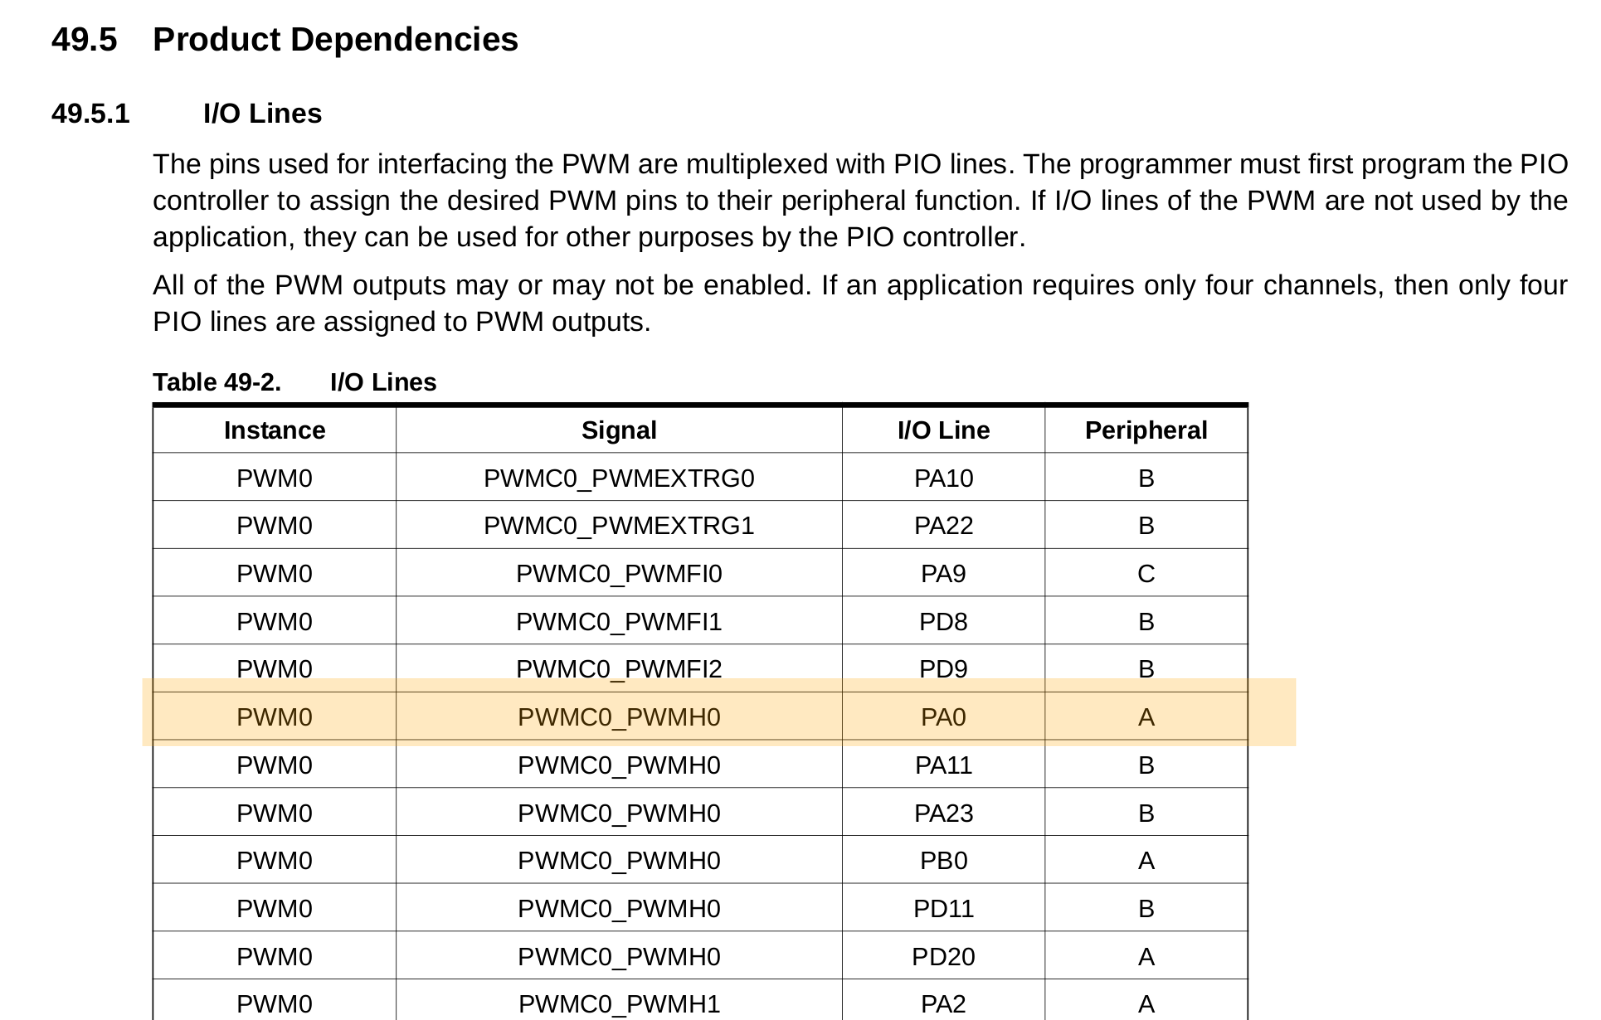
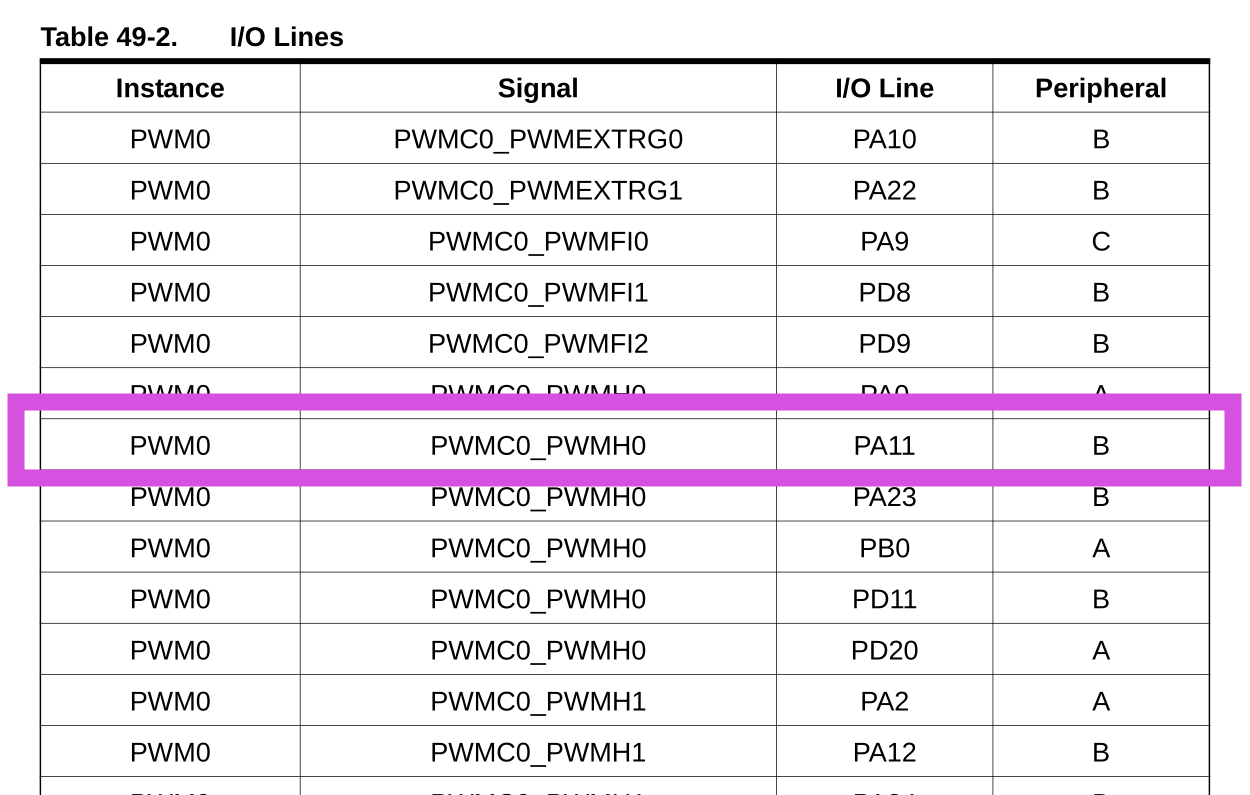
fix figure pd11

diff --git a/Demos/HC05-Controle-Exemplo/python-vjoy/game_controller.py b/Demos/HC05-Controle-Exemplo/python-vjoy/game_controller.py
@@ -2,11 +2,12 @@ import serial
 import argparse
 import time
 import logging
-import pyvjoy # Windows apenas
+import pyvjoy  # Windows apenas
+
 
 class MyControllerMap:
     def __init__(self):
-        self.button = {'A': 1}
+        self.button = {"A": 1}
 
 
 class SerialControllerInterface:
@@ -19,22 +20,27 @@ class SerialControllerInterface:
         self.ser = serial.Serial(port, baudrate=baudrate)
         self.mapping = MyControllerMap()
         self.j = pyvjoy.VJoyDevice(1)
-        self.incoming = '0'
+        self.incoming = "0"
+
+    def tx(self):
+        print("Enter text to send")
+        msg = input()
+        self.ser.write(msg.encode("ascii"))
 
     def update(self):
         ## Sync protocol
-        while self.incoming != b'X':
+        while self.incoming != b"X":
             self.incoming = self.ser.read()
             logging.debug("Received INCOMING: {}".format(self.incoming))
 
         data = self.ser.read()
         logging.debug("Received DATA: {}".format(data))
 
-        if data == b'1':
+        if data == b"1":
             logging.info("Sending press")
-            self.j.set_button(self.mapping.button['A'], 1)
-        elif data == b'0':
-            self.j.set_button(self.mapping.button['A'], 0)
+            self.j.set_button(self.mapping.button["A"], 1)
+        elif data == b"0":
+            self.j.set_button(self.mapping.button["A"], 0)
 
         self.incoming = self.ser.read()
 
@@ -45,29 +51,37 @@ class DummyControllerInterface:
         self.j = pyvjoy.VJoyDevice(1)
 
     def update(self):
-        self.j.set_button(self.mapping.button['A'], 1)
+        self.j.set_button(self.mapping.button["A"], 1)
         time.sleep(0.1)
-        self.j.set_button(self.mapping.button['A'], 0)
+        self.j.set_button(self.mapping.button["A"], 0)
         logging.info("[Dummy] Pressed A button")
         time.sleep(1)
 
 
-if __name__ == '__main__':
-    interfaces = ['dummy', 'serial']
+if __name__ == "__main__":
+    interfaces = ["dummy", "serial"]
     argparse = argparse.ArgumentParser()
-    argparse.add_argument('serial_port', type=str)
-    argparse.add_argument('-b', '--baudrate', type=int, default=9600)
-    argparse.add_argument('-c', '--controller_interface', type=str, default='serial', choices=interfaces)
-    argparse.add_argument('-d', '--debug', default=False, action='store_true')
+    argparse.add_argument("serial_port", type=str)
+    argparse.add_argument("-b", "--baudrate", type=int, default=9600)
+    argparse.add_argument(
+        "-c", "--controller_interface", type=str, default="serial", choices=interfaces
+    )
+    argparse.add_argument("-d", "--debug", default=False, action="store_true")
     args = argparse.parse_args()
     if args.debug:
         logging.basicConfig(level=logging.DEBUG)
 
-    print("Connection to {} using {} interface ({})".format(args.serial_port, args.controller_interface, args.baudrate))
-    if args.controller_interface == 'dummy':
+    print(
+        "Connection to {} using {} interface ({})".format(
+            args.serial_port, args.controller_interface, args.baudrate
+        )
+    )
+    if args.controller_interface == "dummy":
         controller = DummyControllerInterface()
     else:
-        controller = SerialControllerInterface(port=args.serial_port, baudrate=args.baudrate)
+        controller = SerialControllerInterface(
+            port=args.serial_port, baudrate=args.baudrate
+        )
 
     while True:
-        controller.update()
+        controller.tx()

diff --git a/Perifericos-uC/PWM-LED/PWM_PWM_LED_EXAMPLE1/src/pwm_led_example.c b/Perifericos-uC/PWM-LED/PWM_PWM_LED_EXAMPLE1/src/pwm_led_example.c
@@ -3,9 +3,9 @@
 #include "conf_board.h"
 #include "conf_clock.h"
 
-#define PIO_PWM_0 PIOA
-#define ID_PIO_PWM_0 ID_PIOA
-#define MASK_PIN_PWM_0 (1 << 0) 
+#define PIO_PWM_0 PIOD
+#define ID_PIO_PWM_0 ID_PIOD
+#define MASK_PIN_PWM_0 (1 << 11)
 
 void PWM_init(Pwm *p_pwm, uint id_pwm, pwm_channel_t *p_channel, uint channel, uint duty) {
 	/* Enable PWM peripheral clock */
@@ -51,7 +51,7 @@ int main(void) {
   /* Configura pino para ser controlado pelo PWM */
   /* MUITO IMPORTANTE AJUSTAR ESSE CÓDIGO DE ACORDO COM O CANAL E PINO USADO */
   pmc_enable_periph_clk(ID_PIO_PWM_0);
-  pio_set_peripheral(PIO_PWM_0, PIO_PERIPH_A, MASK_PIN_PWM_0 );
+  pio_set_peripheral(PIO_PWM_0, PIO_PERIPH_B, MASK_PIN_PWM_0 );
 
   /* inicializa PWM com duty cycle 23*/
   /* MUITO IMPORTANTE CRIAR UM pwm_channel_t POR CANAL */
